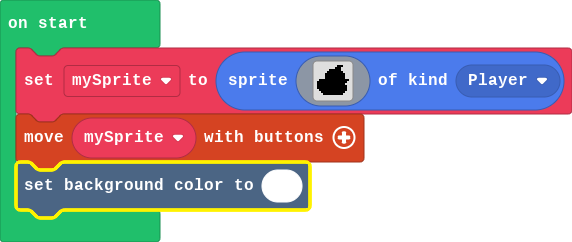
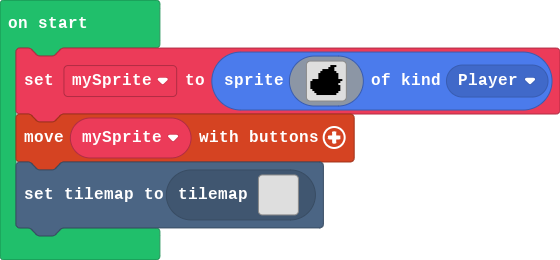
Update pxt.json, main.blocks, main.ts, tilemap.g.jres, tilemap.g.ts

Changed region(s): [[0.0, 0.0, 1.0, 1.0], [0.0, 0.0579, 0.1518, 0.1157], [0.0304, 0.1736, 0.0607, 0.2025]]

diff --git a/tilemap.g.ts b/tilemap.g.ts
@@ -1,0 +1,96 @@
+// Auto-generated code. Do not edit.
+namespace myTiles {
+    //% fixedInstance jres blockIdentity=images._tile
+    export const transparency16 = image.ofBuffer(hex``);
+
+    helpers._registerFactory("tilemap", function(name: string) {
+        switch(helpers.stringTrim(name)) {
+            case "level1":
+            case "level1":return tiles.createTilemap(hex`1000100000000000000000000000000000000000000000000000000000000000000000000000000000000000000000000000000000000000000000000000000000000000000000000000000000000000000000000000000000000000000000000000000000000000000000000000000000000000000000000000000000000000000000000000000000000000000000000000000000000000000000000000000000000000000000000000000000000000000000000000000000000000000000000000000000000000000000000000000000000000000000000000000000000000000000000000000000000000000000000000000000000000000000000000000000000000`, img`
+. . . . . . . . . . . . . . . . 
+. . . . . . . . . . . . . . . . 
+. . . . . . . . . . . . . . . . 
+. . . . . . . . . . . . . . . . 
+. . . . . . . . . . . . . . . . 
+. . . . . . . . . . . . . . . . 
+. . . . . . . . . . . . . . . . 
+. . . . . . . . . . . . . . . . 
+. . . . . . . . . . . . . . . . 
+. . . . . . . . . . . . . . . . 
+. . . . . . . . . . . . . . . . 
+. . . . . . . . . . . . . . . . 
+. . . . . . . . . . . . . . . . 
+. . . . . . . . . . . . . . . . 
+. . . . . . . . . . . . . . . . 
+. . . . . . . . . . . . . . . . 
+`, [myTiles.transparency16], TileScale.Sixteen);
+            case "level2":
+            case "level2":return tiles.createTilemap(hex`1000100000000000000000000000000000000000000000000000000000000000000000000000000000000000000000000000000000000000000000000000000000000000000000000000000000000000000000000000000000000000000000000000000000000000000000000000000000000000000000000000000000000000000000000000000000000000000000000000000000000000000000000000000000000000000000000000000000000000000000000000000000000000000000000000000000000000000000000000000000000000000000000000000000000000000000000000000000000000000000000000000000000000000000000000000000000000`, img`
+. . . . . . . . . . . . . . . . 
+. . . . . . . . . . . . . . . . 
+. . . . . . . . . . . . . . . . 
+. . . . . . . . . . . . . . . . 
+. . . . . . . . . . . . . . . . 
+. . . . . . . . . . . . . . . . 
+. . . . . . . . . . . . . . . . 
+. . . . . . . . . . . . . . . . 
+. . . . . . . . . . . . . . . . 
+. . . . . . . . . . . . . . . . 
+. . . . . . . . . . . . . . . . 
+. . . . . . . . . . . . . . . . 
+. . . . . . . . . . . . . . . . 
+. . . . . . . . . . . . . . . . 
+. . . . . . . . . . . . . . . . 
+. . . . . . . . . . . . . . . . 
+`, [myTiles.transparency16], TileScale.Sixteen);
+            case "level3":
+            case "level3":return tiles.createTilemap(hex`1000100000000000000000000000000000000000000000000000000000000000000000000000000000000000000000000000000000000000000000000000000000000000000000000000000000000000000000000000000000000000000000000000000000000000000000000000000000000000000000000000000000000000000000000000000000000000000000000000000000000000000000000000000000000000000000000000000000000000000000000000000000000000000000000000000000000000000000000000000000000000000000000000000000000000000000000000000000000000000000000000000000000000000000000000000000000000`, img`
+. . . . . . . . . . . . . . . . 
+. . . . . . . . . . . . . . . . 
+. . . . . . . . . . . . . . . . 
+. . . . . . . . . . . . . . . . 
+. . . . . . . . . . . . . . . . 
+. . . . . . . . . . . . . . . . 
+. . . . . . . . . . . . . . . . 
+. . . . . . . . . . . . . . . . 
+. . . . . . . . . . . . . . . . 
+. . . . . . . . . . . . . . . . 
+. . . . . . . . . . . . . . . . 
+. . . . . . . . . . . . . . . . 
+. . . . . . . . . . . . . . . . 
+. . . . . . . . . . . . . . . . 
+. . . . . . . . . . . . . . . . 
+. . . . . . . . . . . . . . . . 
+`, [myTiles.transparency16], TileScale.Sixteen);
+            case "level4":
+            case "level4":return tiles.createTilemap(hex`1000100000000000000000000000000000000000000000000000000000000000000000000000000000000000000000000000000000000000000000000000000000000000000000000000000000000000000000000000000000000000000000000000000000000000000000000000000000000000000000000000000000000000000000000000000000000000000000000000000000000000000000000000000000000000000000000000000000000000000000000000000000000000000000000000000000000000000000000000000000000000000000000000000000000000000000000000000000000000000000000000000000000000000000000000000000000000`, img`
+. . . . . . . . . . . . . . . . 
+. . . . . . . . . . . . . . . . 
+. . . . . . . . . . . . . . . . 
+. . . . . . . . . . . . . . . . 
+. . . . . . . . . . . . . . . . 
+. . . . . . . . . . . . . . . . 
+. . . . . . . . . . . . . . . . 
+. . . . . . . . . . . . . . . . 
+. . . . . . . . . . . . . . . . 
+. . . . . . . . . . . . . . . . 
+. . . . . . . . . . . . . . . . 
+. . . . . . . . . . . . . . . . 
+. . . . . . . . . . . . . . . . 
+. . . . . . . . . . . . . . . . 
+. . . . . . . . . . . . . . . . 
+. . . . . . . . . . . . . . . . 
+`, [myTiles.transparency16], TileScale.Sixteen);
+        }
+        return null;
+    })
+
+    helpers._registerFactory("tile", function(name: string) {
+        switch(helpers.stringTrim(name)) {
+            case "transparency16":return transparency16;
+        }
+        return null;
+    })
+
+}
+// Auto-generated code. Do not edit.

diff --git a/main.ts b/main.ts
@@ -17,4 +17,4 @@ let mySprite = sprites.create(img`
     . . . . . . . . . . . . . . . . 
     `, SpriteKind.Player)
 controller.moveSprite(mySprite)
-scene.setBackgroundColor(1)
+tiles.setCurrentTilemap(tilemap`level4`)
